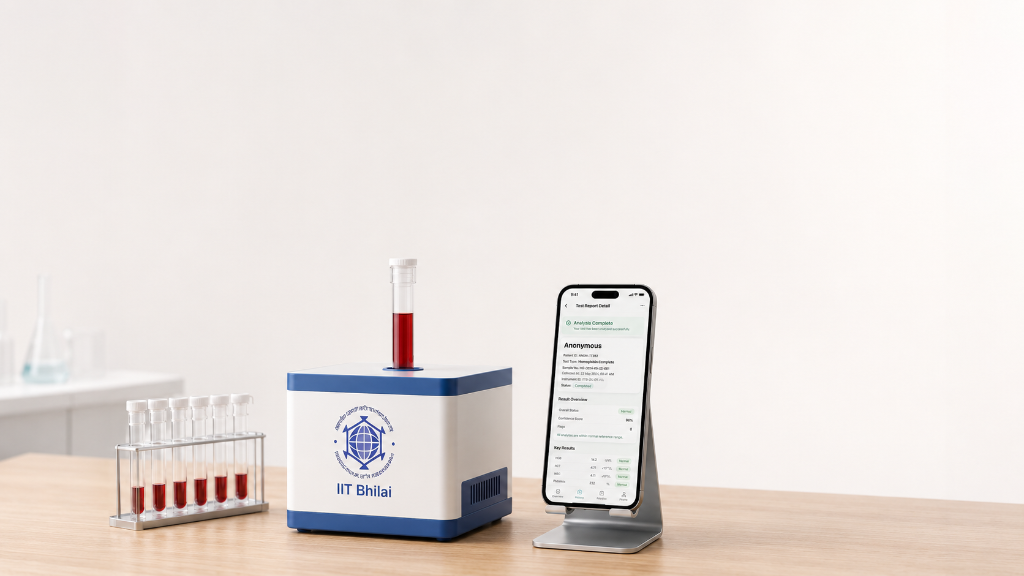
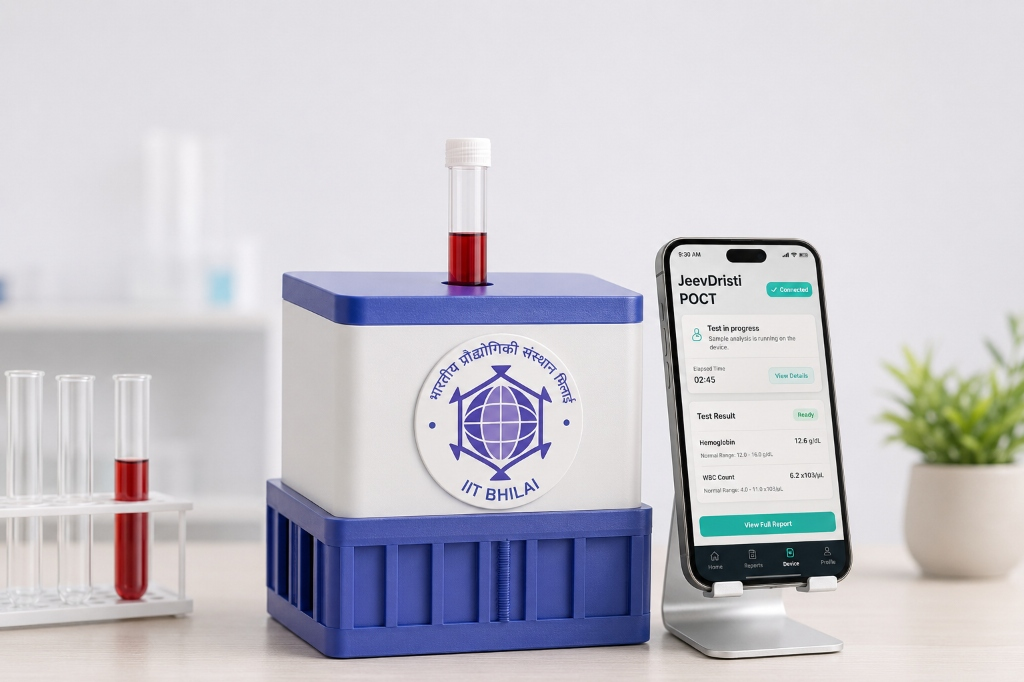
feat(hero): update workstation hero background with new high-res IIT Bhilai image

diff --git a/src/components/Hero.tsx b/src/components/Hero.tsx
@@ -41,8 +41,8 @@ export function Hero({ apk, isLoading }: HeroProps) {
           src={poctWorkstationImg}
           alt="SickleSense POCT clinical workstation background"
           className="size-full object-cover object-bottom select-none"
-          width="1376"
-          height="768"
+          width="1024"
+          height="682"
           fetchPriority="high"
         />
         {/* Subtle top edge fade for smooth navbar blend */}
